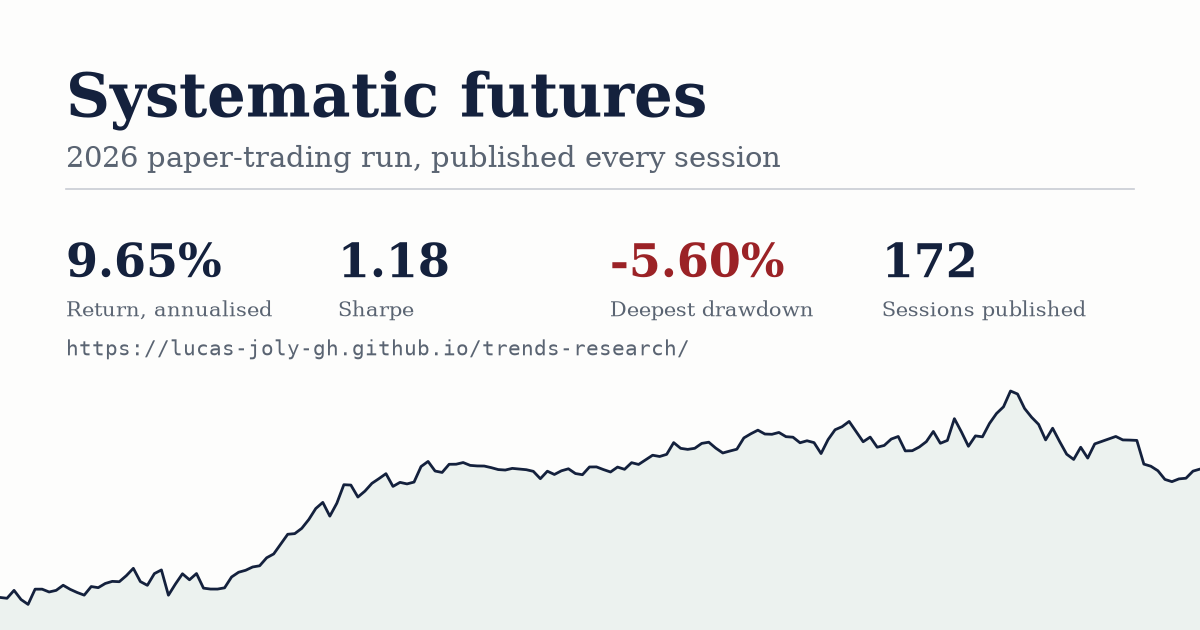
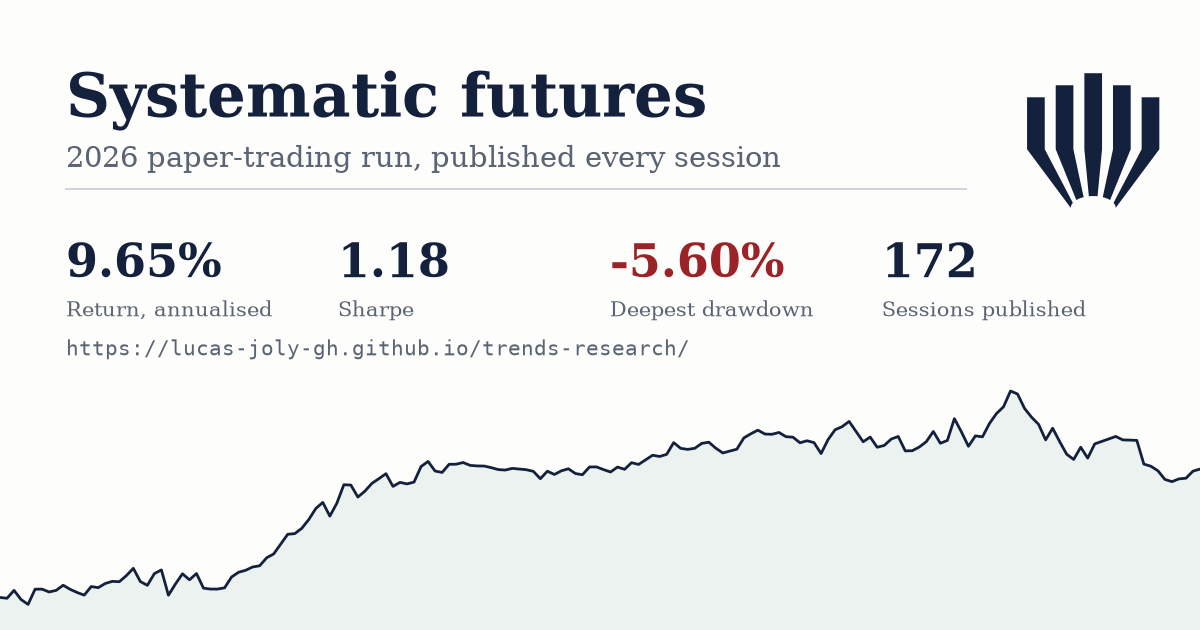
Live work

Changed region(s): [[0.8325, 0.1206, 0.9867, 0.3317]]

diff --git a/Live/5_Publish/crest.py b/Live/5_Publish/crest.py
@@ -1,0 +1,121 @@
+"""L'ecusson a colonnes, reconstruit en vectoriel puis inverse.
+
+PAS UN CALQUE : la reference est un bitmap, et un bitmap agrandi bave,
+reduit se bouche, et ne se recolore pas proprement. On redessine donc la
+geometrie, ce qui donne un trace net a n'importe quelle taille.
+
+CE QUI A RATE DEUX FOIS. J'ai d'abord traite les fentes comme des rayons
+partant d'un foyer unique. Un rayon est une droite : la fente exterieure
+part donc en biais des le sommet et traverse tout le blason, d'ou le
+coquillage. Or dans la reference les colonnes sont VERTICALES en haut et
+ne se rabattent vers le centre que dans le dernier tiers. Ce n'est pas un
+eventail, c'est un faisceau qui se resserre en bas -- deux regimes, pas
+un. On modelise donc le coude explicitement.
+"""
+import pathlib
+import sys
+
+# DEUX DECLINAISONS DU MEME BLASON, et ce n'est pas un caprice : sept
+# colonnes ne peuvent pas se resoudre dans seize pixels. Les fentes s'y
+# bouchent et la marque devient une pastille grise. La version a cinq
+# colonnes garde la silhouette, l'ecartement et l'arche -- elle se lit
+# comme la meme chose -- mais ses fentes sont assez larges pour survivre a
+# la reduction. Sept partout ou il y a la place, cinq dans l'onglet.
+#
+# L'empan reste identique dans les deux cas : c'est ce qui fait qu'on les
+# reconnait comme une seule marque et non comme deux.
+SPAN = 83.5
+
+
+def geometry(n, gap_ratio):
+    """Entraxe et largeur de colonne pour n colonnes a empan constant."""
+    barw = SPAN / (n + (n - 1) * gap_ratio)
+    return barw * (1 + gap_ratio), barw
+
+
+N = 7
+PITCH, BARW = geometry(N, 0.47)
+TOP_C = 9.0                # sommet de la colonne centrale
+STEP = 5.6                 # descente du sommet par colonne ecartee
+BEND = 57.0                # ou les colonnes commencent a se rabattre
+# LE DESSIN DOIT TENIR DANS SES 100 UNITES : en faisant plonger le flanc
+# trop bas, le blason se faisait couper par le bord de la vignette et non
+# par l'arc.
+PULL = 0.72                # ce que les FENTES rattrapent au bas du coude
+BOT = 99.0                 # ou les fentes s'arretent, sous l'arc
+# Le flanc se rabat MOINS vite que les fentes : c'est ce qui laisse a la
+# colonne exterieure une largeur au lieu de la reduire a un fil.
+OUT_PULL = 0.66
+# L'ARC EST LA BASE, PAS UNE ENCOCHE.  Premiere lecture, fausse : j'en
+# avais fait un petit trou perce dans un fond plat, si bien que les
+# colonnes centrales s'y terminaient et les exterieures sur le bord droit
+# -- des pages posees sur deux appuis differents. Ce qu'il faut, c'est un
+# seul demi-cercle sur lequel TOUTES viennent se relier, comme un cahier
+# sur sa reliure.
+#
+# Son rayon n'est donc pas un reglage : il vaut exactement la demi-largeur
+# du faisceau une fois resserre, pour que l'arc rejoigne les deux branches
+# exterieures a leur extremite. Le calculer plutot que le choisir garantit
+# que la reliure reste juste si l'ecartement ou le coude changent.
+BOT_LINE = 94.0            # la ligne du bas EST le centre de l'arc
+
+
+def cx(i):
+    return 50.0 + (i - (N - 1) / 2) * PITCH
+
+
+def bar_top(i):
+    return TOP_C + abs(i - (N - 1) / 2) * STEP
+
+
+def converge(x, pull=None):
+    """Ou se trouve l'abscisse x une fois le faisceau resserre."""
+    return 50.0 + (x - 50.0) * (1.0 - (PULL if pull is None else pull))
+
+
+def arc_r():
+    """Le rayon de la reliure : la demi-largeur du faisceau resserre."""
+    return 50.0 - converge(cx(0) - BARW / 2, OUT_PULL)
+
+
+def outline():
+    """Fronton en gradins, flancs verticaux, puis la pointe de l'ecu."""
+    pts = []
+    for i in range(N):
+        t = bar_top(i)
+        pts.append((cx(i) - BARW / 2, t))
+        pts.append((cx(i) + BARW / 2, t))
+    xr, xl = cx(N - 1) + BARW / 2, cx(0) - BARW / 2
+    pts += [(xr, BEND), (converge(xr, OUT_PULL), BOT_LINE),
+            (converge(xl, OUT_PULL), BOT_LINE), (xl, BEND)]
+    return pts
+
+
+def slot(j):
+    """Une fente : verticale jusqu'au coude, rabattue vers le centre
+    ensuite. Elle demarre au-dessus du fronton et finit sous la pointe --
+    ce qui deborde est coupe par le contour, et evite d'avoir a calculer
+    ou exactement chaque fente rencontre le bord."""
+    l = cx(j) + BARW / 2
+    r = cx(j + 1) - BARW / 2
+    return [(l, -6.0), (r, -6.0),
+            (r, BEND), (converge(r), BOT),
+            (converge(l), BOT), (l, BEND)]
+
+
+def configure(n, gap_ratio, step):
+    """Basculer les constantes du module sur une declinaison."""
+    global N, PITCH, BARW, STEP
+    N, STEP = n, step
+    PITCH, BARW = geometry(n, gap_ratio)
+
+
+# UNE SEULE DECLINAISON. Cinq colonnes tiennent a 16 px et restent
+# franches en grand : garder une seconde geometrie pour les grandes tailles
+# n'achetait qu'une difference que personne ne verrait, au prix de deux
+# dessins a maintenir accordes.
+
+# La declinaison retenue : cinq colonnes, une fente valant 0,62 colonne,
+# un gradin de 7,6. Les autres essais ont ete ecartes -- cinq tiennent a
+# 16 px et restent franches en grand.
+configure(5, 0.62, 7.6)

diff --git a/Live/5_Publish/social_card.py b/Live/5_Publish/social_card.py
@@ -29,6 +29,39 @@ NEG = "#9b2226"
 W, H, DPI = 1200, 630, 100
 
 
+def draw_crest(fig, plt):
+    """Le blason du site, en haut a droite de la carte.
+
+    DESSINE, PAS IMPORTE. Le meme blason existe en SVG dans docs/, mais le
+    lire ici supposerait un moteur de rendu vectoriel dans le pipeline --
+    une dependance de plus pour un ornement, et la carte a justement pour
+    regle de ne jamais pouvoir faire echouer une publication. La geometrie
+    est partagee avec les icones via crest.py ; seul le trace differe.
+
+    En haut a DROITE : le titre et les chiffres occupent la gauche, et une
+    marque posee la n'entrerait en concurrence avec rien.
+    """
+    from matplotlib.patches import Circle, Polygon
+    import crest
+
+    # De la grille 0..100 du blason vers les coordonnees de figure.
+    size, x0, y0 = 0.132, 0.845, 0.655
+    m = lambda p: (x0 + p[0] / 100.0 * size,
+                   y0 + (100 - p[1]) / 100.0 * size * W / H)
+
+    fig.add_artist(Polygon([m(p) for p in crest.outline()], closed=True,
+                           facecolor=INK, edgecolor="none", zorder=3))
+    # Les fentes et l'arc sont repeints dans la couleur du fond : sur une
+    # carte au fond plein c'est exact, et cela evite un masque que
+    # matplotlib rendrait mal a cette taille.
+    for j in range(crest.N - 1):
+        fig.add_artist(Polygon([m(q) for q in crest.slot(j)], closed=True,
+                               facecolor=PAGE, edgecolor="none", zorder=4))
+    c = m((50.0, crest.BOT_LINE))
+    fig.add_artist(Circle(c, crest.arc_r() / 100.0 * size,
+                          facecolor=PAGE, edgecolor="none", zorder=4))
+
+
 def render(out_path, dates, equity, stats: dict, url: str) -> None:
     """Ecrit la carte. Lever une exception ici est sans consequence."""
     import matplotlib
@@ -68,10 +101,14 @@ def render(out_path, dates, equity, stats: dict, url: str) -> None:
         fig.text(x, y, s, fontsize=size, color=color, fontweight=weight,
                  fontfamily=family, va="baseline")
 
+    draw_crest(fig, plt)
     txt(0.055, 0.815, "Systematic futures", 44, INK, "bold")
     txt(0.055, 0.735, "2026 paper-trading run, published every session", 21, MUTED)
 
-    fig.add_artist(plt.Line2D([0.055, 0.945], [0.700, 0.700],
+    # Le filet s'arrete AVANT le blason. A 0,945 il lui passait dessous :
+    # invisible parce que le blason est au-dessus, mais il ressortait de
+    # part et d'autre comme un trait qui traverse la marque.
+    fig.add_artist(plt.Line2D([0.055, 0.805], [0.700, 0.700],
                               color=RULE, linewidth=1.2))
 
     # Quatre chiffres, pas huit : ce qui doit survivre a une vignette lue en
